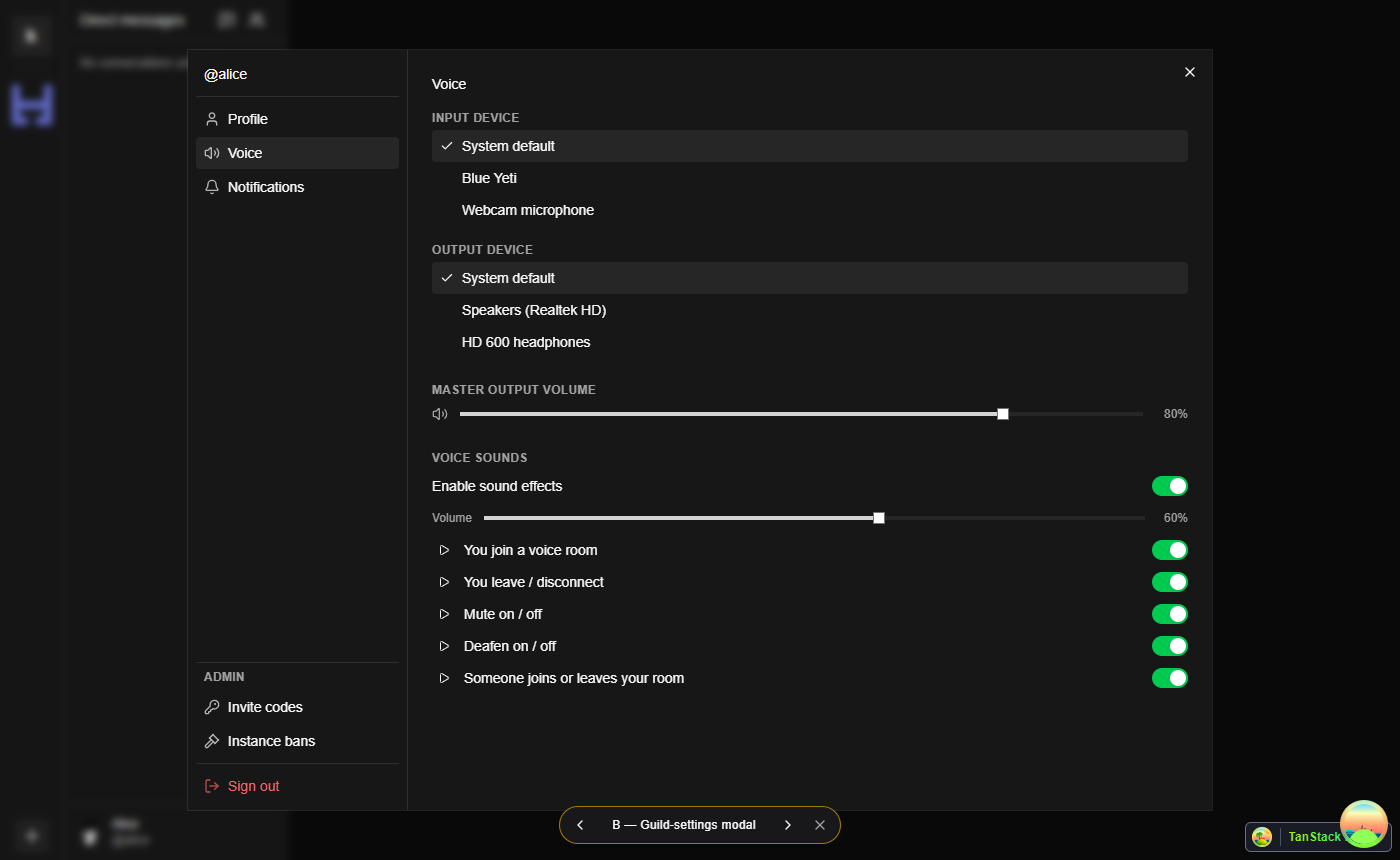
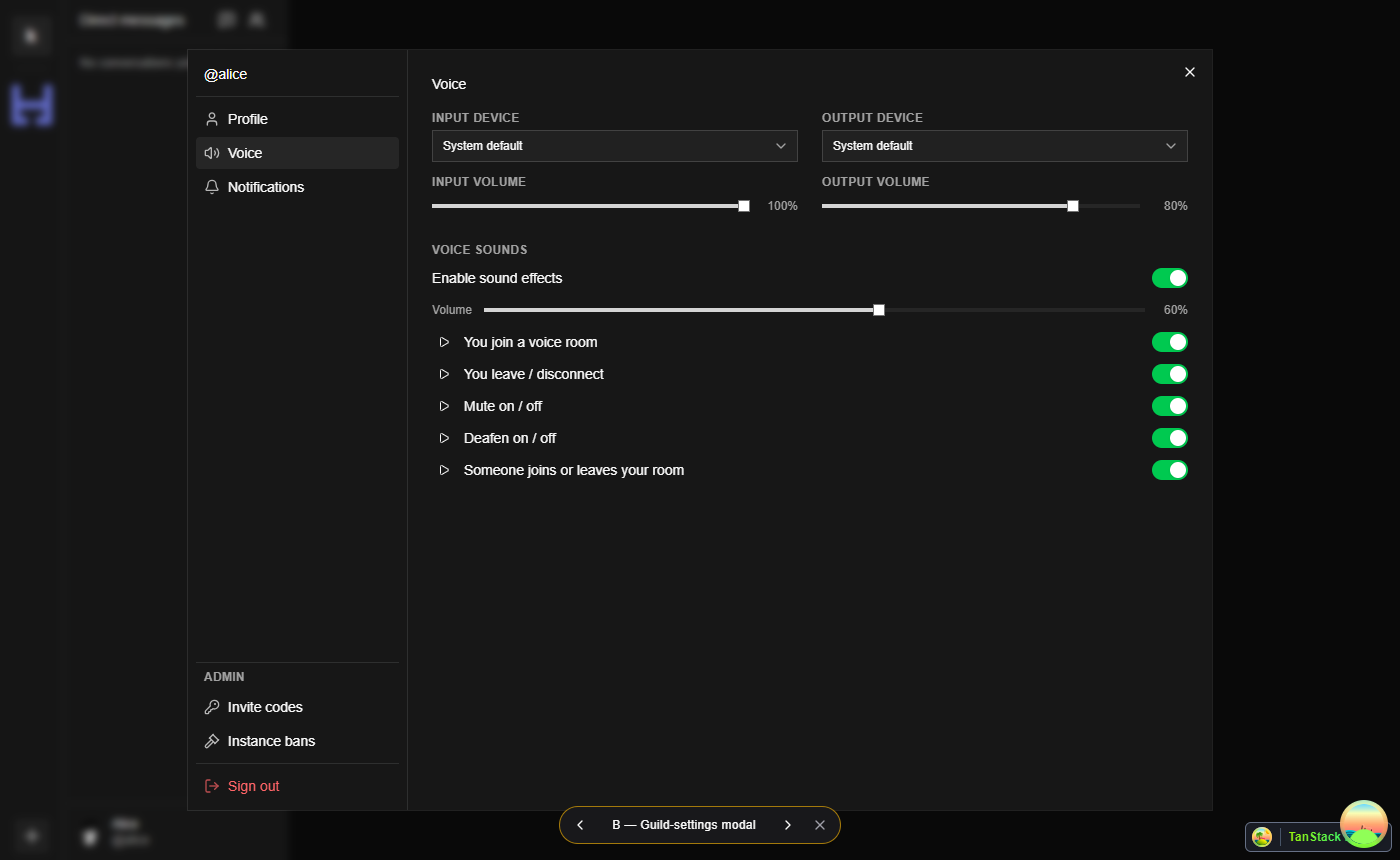
prototype(web): Discord-style voice grid in variant B from second reaction (#77)
Input/output device dropdowns side by side, input/output volume sliders
beneath each column (output volume doubles as the master), voice sounds
below — mirrors Discord's Voice Settings layout.

diff --git a/apps/web/src/components/user-settings-prototype/shared.tsx b/apps/web/src/components/user-settings-prototype/shared.tsx
@@ -6,6 +6,14 @@ import { Avatar } from "@konus-la/ui/components/avatar";
 import { Button } from "@konus-la/ui/components/button";
 import { Input } from "@konus-la/ui/components/input";
 import { Label } from "@konus-la/ui/components/label";
+import {
+  Select,
+  SelectContent,
+  SelectGroup,
+  SelectItem,
+  SelectTrigger,
+  SelectValue,
+} from "@konus-la/ui/components/select";
 import { Slider } from "@konus-la/ui/components/slider";
 import { cn } from "@konus-la/ui/lib/utils";
 import { CheckIcon, PlayIcon, Volume2Icon } from "lucide-react";
@@ -182,14 +190,14 @@ function DeviceList({
 }
 
 /** Input/output pickers — the DevicePicker's lists, re-homed (fake devices). */
-export function DeviceFields() {
+export function DeviceFields({ sideBySide = false }: { sideBySide?: boolean }) {
   const micChoice = usePrototypeStore((s) => s.micChoice);
   const speakerChoice = usePrototypeStore((s) => s.speakerChoice);
   const setMicChoice = usePrototypeStore((s) => s.setMicChoice);
   const setSpeakerChoice = usePrototypeStore((s) => s.setSpeakerChoice);
 
   return (
-    <div className="flex flex-col gap-4">
+    <div className={sideBySide ? "grid grid-cols-1 gap-4 sm:grid-cols-2" : "flex flex-col gap-4"}>
       <DeviceList
         title="Input device"
         fakes={FAKE_INPUTS}
@@ -202,6 +210,76 @@ export function DeviceFields() {
         selected={speakerChoice}
         onSelect={setSpeakerChoice}
       />
+    </div>
+  );
+}
+
+/** Discord-style Voice Settings grid: device dropdowns side by side, a volume slider
+ * under each. Output volume doubles as the master output volume. */
+export function DeviceVolumeGrid() {
+  const micChoice = usePrototypeStore((s) => s.micChoice);
+  const speakerChoice = usePrototypeStore((s) => s.speakerChoice);
+  const setMicChoice = usePrototypeStore((s) => s.setMicChoice);
+  const setSpeakerChoice = usePrototypeStore((s) => s.setSpeakerChoice);
+  const micVolume = usePrototypeStore((s) => s.micVolume);
+  const setMicVolume = usePrototypeStore((s) => s.setMicVolume);
+  const masterVolume = usePrototypeStore((s) => s.masterVolume);
+  const setMasterVolume = usePrototypeStore((s) => s.setMasterVolume);
+
+  const column = (
+    deviceTitle: string,
+    fakes: string[],
+    selected: string | null,
+    onSelect: (id: string | null) => void,
+    volumeTitle: string,
+    volume: number,
+    onVolume: (v: number) => void,
+  ) => {
+    const items = [
+      { value: "__default", label: "System default" },
+      ...fakes.map((label) => ({ value: label, label })),
+    ];
+    return (
+      <div className="flex min-w-0 flex-col gap-3">
+        <FieldGroup title={deviceTitle}>
+          <Select
+            items={items}
+            value={selected ?? "__default"}
+            onValueChange={(value) => onSelect(value === "__default" ? null : (value as string))}
+          >
+            <SelectTrigger className="w-full">
+              <SelectValue />
+            </SelectTrigger>
+            <SelectContent>
+              <SelectGroup>
+                {items.map((item) => (
+                  <SelectItem key={item.value} value={item.value}>
+                    {item.label}
+                  </SelectItem>
+                ))}
+              </SelectGroup>
+            </SelectContent>
+          </Select>
+        </FieldGroup>
+        <FieldGroup title={volumeTitle}>
+          <div className="flex items-center gap-3 py-1">
+            <Slider
+              value={[volume]}
+              onValueChange={(v) => onVolume(Array.isArray(v) ? (v[0] ?? 0) : v)}
+            />
+            <span className="w-9 shrink-0 text-right text-xs tabular-nums text-muted-foreground">
+              {volume}%
+            </span>
+          </div>
+        </FieldGroup>
+      </div>
+    );
+  };
+
+  return (
+    <div className="grid grid-cols-1 gap-x-6 gap-y-4 sm:grid-cols-2">
+      {column("Input device", FAKE_INPUTS, micChoice, setMicChoice, "Input volume", micVolume, setMicVolume)}
+      {column("Output device", FAKE_OUTPUTS, speakerChoice, setSpeakerChoice, "Output volume", masterVolume, setMasterVolume)}
     </div>
   );
 }

diff --git a/apps/web/src/components/user-settings-prototype/variant-b-modal.tsx b/apps/web/src/components/user-settings-prototype/variant-b-modal.tsx
@@ -11,8 +11,7 @@ import { BellIcon, GavelIcon, KeyRoundIcon, LogOutIcon, UserIcon, Volume2Icon } 
 import { toast } from "sonner";
 
 import {
-  DeviceFields,
-  MasterVolumeField,
+  DeviceVolumeGrid,
   NotificationDefaultFields,
   NotificationPermissionField,
   NotificationSoundField,
@@ -119,8 +118,7 @@ export function VariantBModal({
           {section === "profile" && <ProfileFields {...user} />}
           {section === "voice" && (
             <div className="flex flex-col gap-6">
-              <DeviceFields />
-              <MasterVolumeField />
+              <DeviceVolumeGrid />
               <SoundFields title="Voice sounds" only={[...VOICE_SOUNDS]} />
             </div>
           )}

diff --git a/apps/web/src/components/user-settings-prototype/store.ts b/apps/web/src/components/user-settings-prototype/store.ts
@@ -46,6 +46,8 @@ interface PrototypeState {
 
   masterVolume: number;
   setMasterVolume: (v: number) => void;
+  micVolume: number;
+  setMicVolume: (v: number) => void;
   soundsEnabled: boolean;
   setSoundsEnabled: (on: boolean) => void;
   soundVolume: number;
@@ -77,6 +79,8 @@ export const usePrototypeStore = create<PrototypeState>()((set) => ({
 
   masterVolume: 80,
   setMasterVolume: (masterVolume) => set({ masterVolume }),
+  micVolume: 100,
+  setMicVolume: (micVolume) => set({ micVolume }),
   soundsEnabled: true,
   setSoundsEnabled: (soundsEnabled) => set({ soundsEnabled }),
   soundVolume: 60,

diff --git a/docs/prototypes/user-settings-77/NOTES.md b/docs/prototypes/user-settings-77/NOTES.md
@@ -22,8 +22,10 @@ B splits — voice sounds under Voice, notification ping toggle under Notificati
 
 **First reaction (2026-07-17): variant B wins, refined** — bigger shell
 (`sm:max-w-5xl`, `min(90vh,760px)`, 220px rail), the UserCard unified into the dialog
-(Admin group + Sign out at the rail bottom; the footer keeps only the chip), and A's
-device pickers baked into Voice (the ControlDeck gear now opens the dialog, popover
-gone in B). `proto-09`/`proto-10` capture the refined take.
+(Admin group + Sign out at the rail bottom; the footer keeps only the chip), and
+devices baked into Voice (the ControlDeck gear now opens the dialog, popover gone
+in B). Voice lays out Discord-style: input/output device dropdowns side by side with
+an input/output volume slider under each (output volume IS the master volume), voice
+sounds below. `proto-09`/`proto-10` capture the refined take.
 
 _(awaiting confirmation on the refined B before the ticket closes)_
